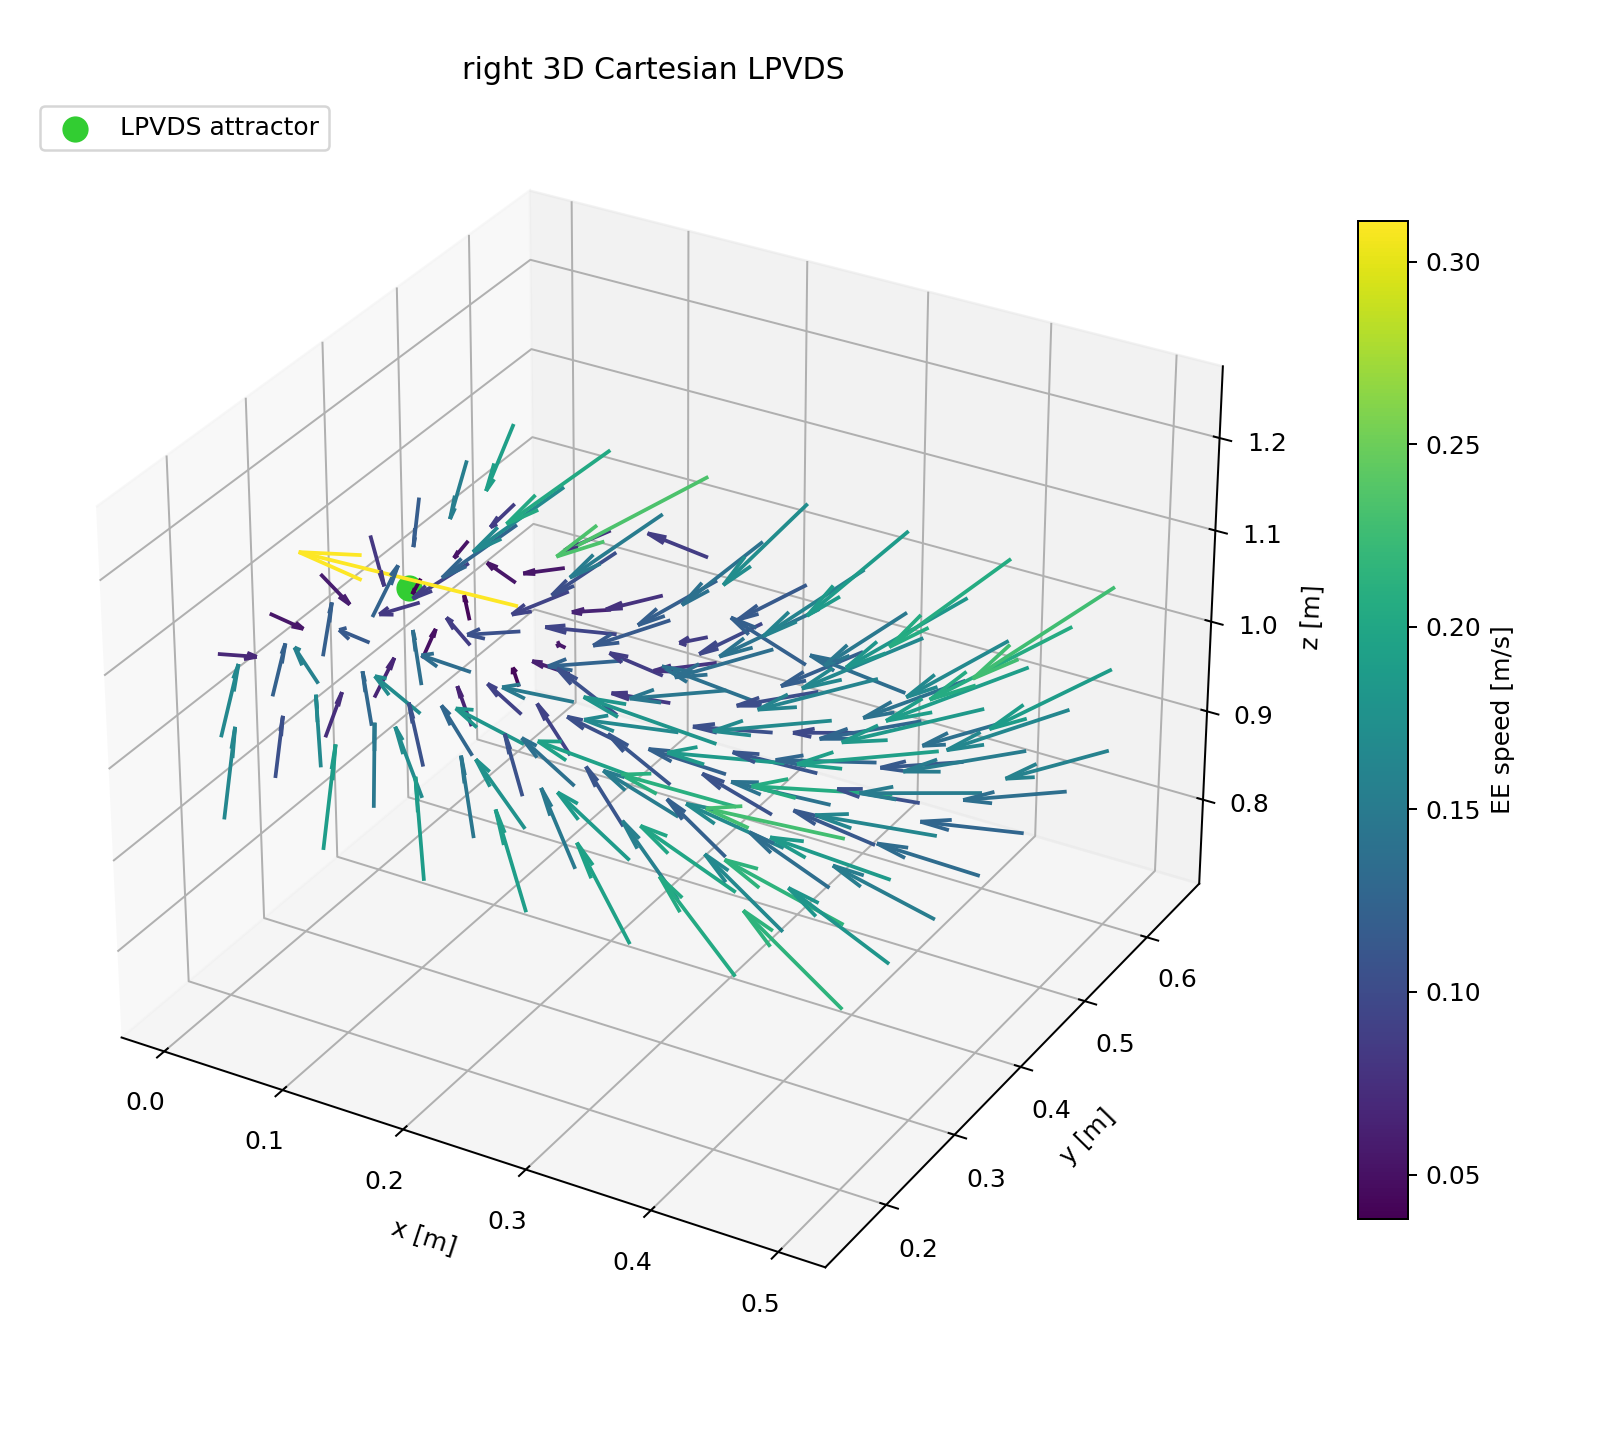
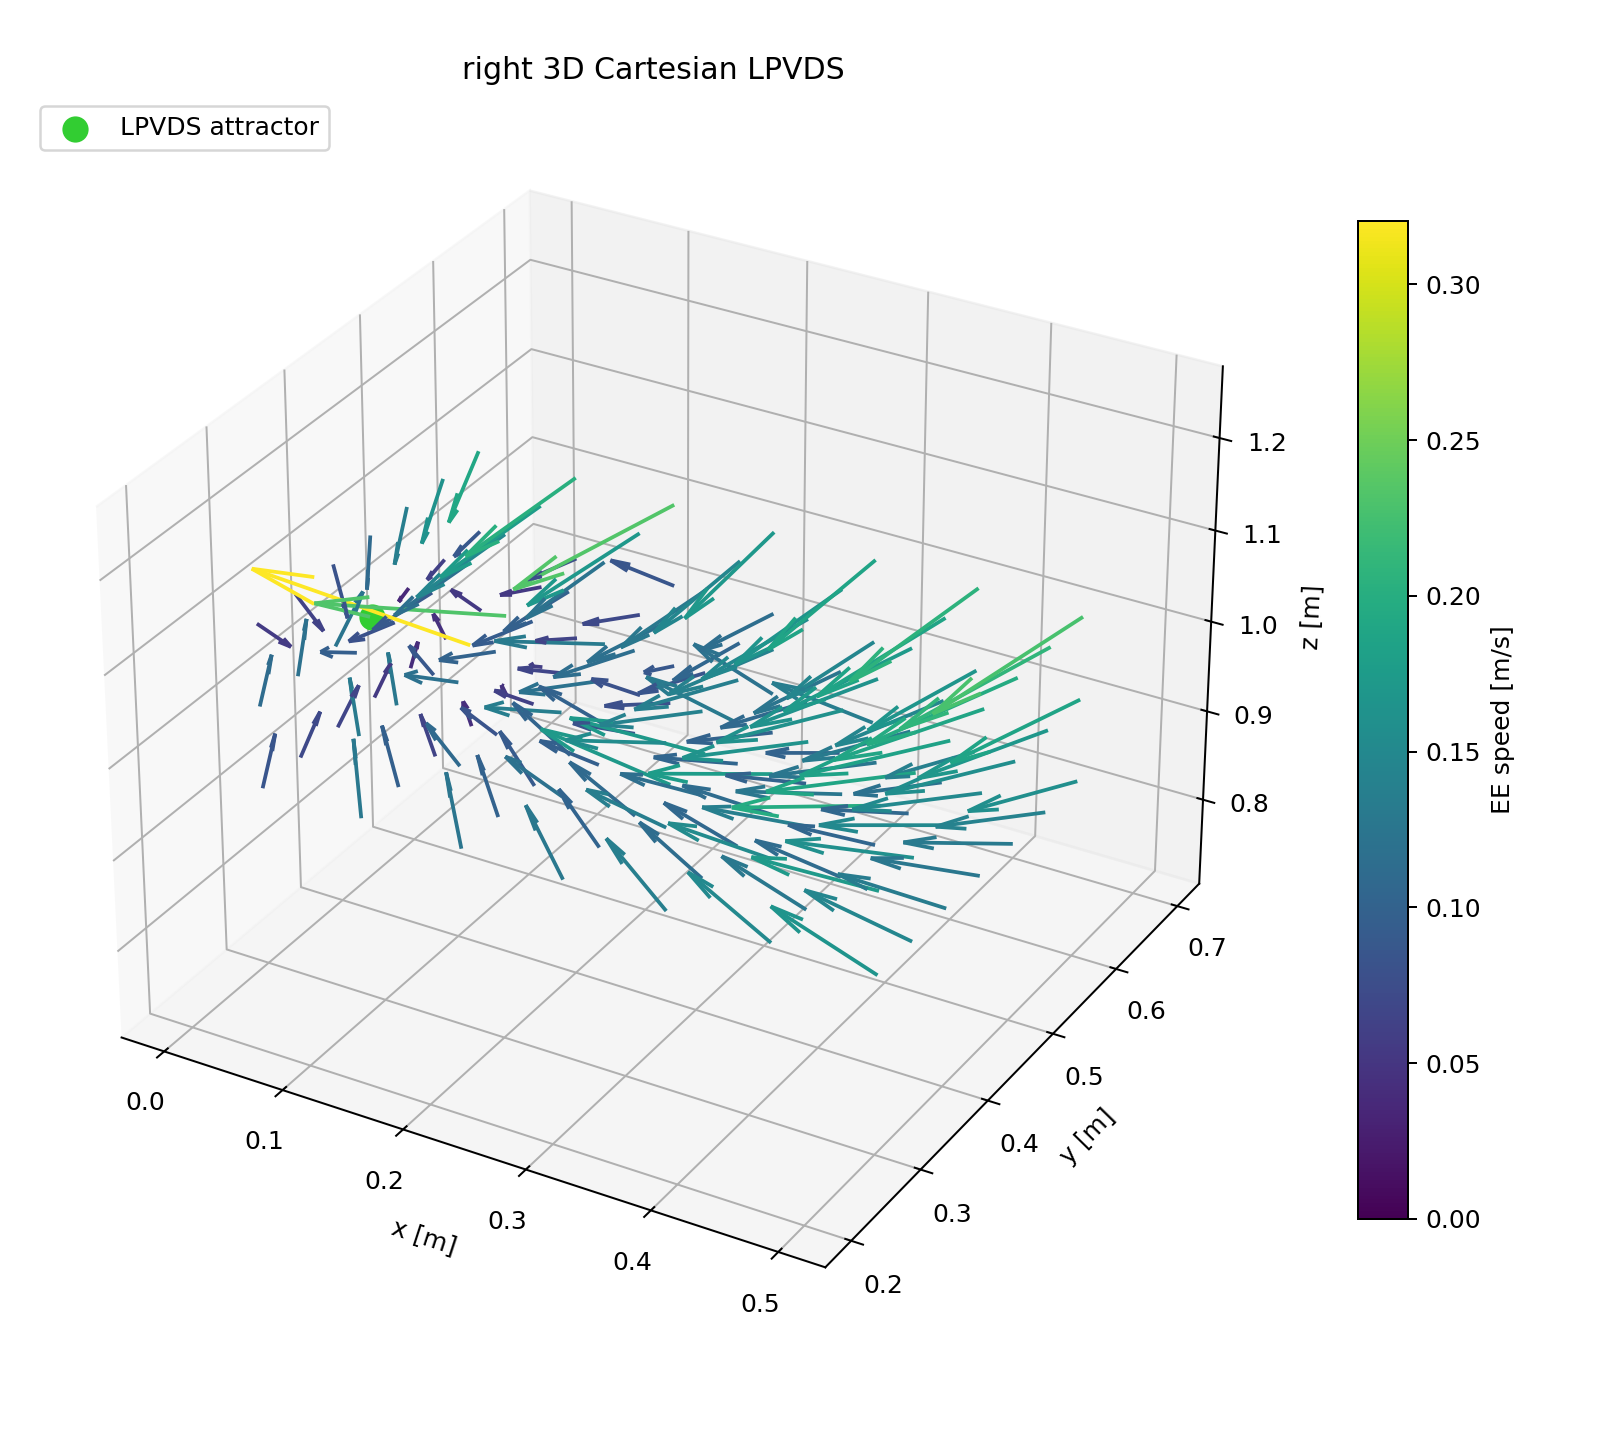
fix: random blocks not spawned too close to the robot

diff --git a/src/env.py b/src/env.py
@@ -119,10 +119,13 @@ class DualArmEnv:
     def _build_blocks(self):
         """Spawn blocks at workspace centre — randomised before each demo."""
         block_z = self.cfg["table"]["height"] + self.cfg["block"]["size"] / 2
+        front_y_min = self.cfg["block_workspace"].get(
+            "front_y_min", self.cfg["arms"]["y"] + 0.30
+        )
         for arm in self.arms_active:
             ws = self.cfg["block_workspace"][arm]
             cx = (ws["x_min"] + ws["x_max"]) / 2
-            cy = (ws["y_min"] + ws["y_max"]) / 2
+            cy = (max(ws["y_min"], front_y_min) + ws["y_max"]) / 2
             for i, b in enumerate(self.cfg[f"{arm}_blocks"]):
                 spawn_pos = np.array([cx + i * 0.10, cy, block_z])
                 obj = self.world.scene.add(DynamicCuboid(
@@ -157,21 +160,32 @@ class DualArmEnv:
         """Randomise block positions within per-arm workspace bounds.
 
         Blocks are placed at random (x, y) within their arm's workspace with
-        a minimum separation enforced between all blocks.
+        a minimum separation enforced between all blocks. The Y lower bound is
+        also clamped so cubes spawn far enough in front of the robot bases.
         """
         if rng is None:
             rng = np.random.default_rng()
 
         block_z  = self.cfg["table"]["height"] + self.cfg["block"]["size"] / 2
         min_sep  = self.cfg["block_workspace"]["min_block_spacing"]
+        front_y_min = self.cfg["block_workspace"].get(
+            "front_y_min", self.cfg["arms"]["y"] + 0.30
+        )
         placed   = []
 
         for arm in self.arms_active:
             ws = self.cfg["block_workspace"][arm]
+            y_min = max(ws["y_min"], front_y_min)
+            y_max = ws["y_max"]
+            if y_min >= y_max:
+                raise ValueError(
+                    f"{arm} block workspace has no valid forward spawn band: "
+                    f"y_min={y_min:.3f}, y_max={y_max:.3f}"
+                )
             for b in self.cfg[f"{arm}_blocks"]:
                 for _ in range(200):
                     x = rng.uniform(ws["x_min"], ws["x_max"])
-                    y = rng.uniform(ws["y_min"], ws["y_max"])
+                    y = rng.uniform(y_min, y_max)
                     if all(np.linalg.norm([x - px, y - py]) >= min_sep
                            for px, py in placed):
                         break

diff --git a/scripts/collect_ik.py b/scripts/collect_ik.py
@@ -34,6 +34,8 @@ def main():
     parser.add_argument("--arm",      type=str, default="left", choices=["left", "right"])
     parser.add_argument("--n_demos",  type=int, default=50)
     parser.add_argument("--config",   type=str, default="configs/default.yaml")
+    parser.add_argument("--seed",     type=int, default=42,
+                        help="Random seed for block placement during collection")
     parser.add_argument("--headless", action="store_true")
 
     args = parser.parse_args()
@@ -72,10 +74,11 @@ def main():
     # EE orientation for transport/lift/place — straight down, no yaw
     ee_down = np.array([0.0, 1.0, 0.0, 0.0])   # w,x,y,z
 
-    rng = np.random.default_rng(seed=42)
+    rng = np.random.default_rng(seed=args.seed)
     all_demos = []
 
-    print(f"\n[INFO] Collecting {args.n_demos} demos ({args.arm} arm) — transport only.")
+    print(f"\n[INFO] Collecting {args.n_demos} demos ({args.arm} arm) — "
+          f"transport only, seed={args.seed}.")
 
     for demo_idx in range(args.n_demos):
         print(f"  Demo {demo_idx + 1}/{args.n_demos}")